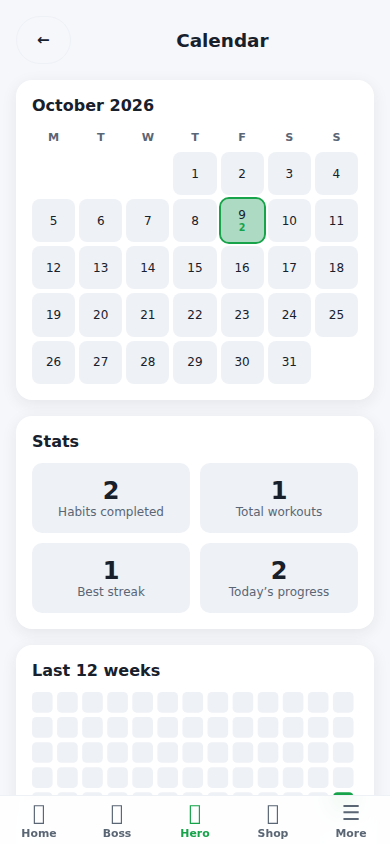
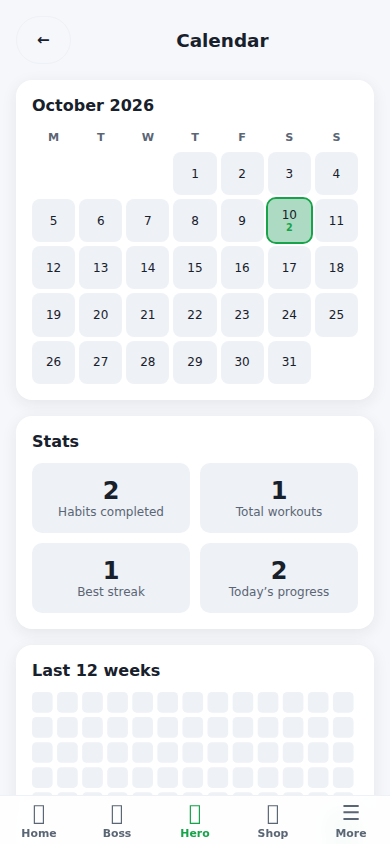
docs: logcat crash diagnosis + release keystore guide

Changed region(s): [[0.5538, 0.2156, 0.8, 0.3081], [0.8615, 0.9242, 0.8923, 0.955]]

diff --git a/PROJECT_STATUS.md b/PROJECT_STATUS.md
@@ -17,7 +17,7 @@ _Last updated: 2026-10-09_
       ratings, audience, ads, access, declarations, graphics specs, console
       checklist) + 7 real app screenshots + 512px icon
 
-## 🐛 Bugs found & fixed (2026-10-09)
+## 🐛 Bugs found & fixed (2026-10-09/10)
 
 - Router had no `:param` matching → workout screen 404'd (headline feature broken)
 - Rest overlay CSS overrode `hidden` → blocked ALL workout button taps
@@ -30,6 +30,22 @@ _Last updated: 2026-10-09_
   the zip wrapper was the likely cause of "tap → nothing happens")
 - AdMob now statically imported (rewarded ads actually work on Android)
 - Boot error boundary: any startup crash now shows a visible message
+- **Crash-proof `MainActivity`**: onCreate/onStart/onResume wrapped in
+  try/catch → visible error dialog instead of silent force-close
+  (`showFatalError` verified inside APK classes13.dex)
+- **Release signing**: ephemeral CI test keystore via keytool
+  (fixes `validateSigningRelease` "debug.keystore not found")
+- **R8/ProGuard**: `minifyEnabled` + `shrinkResources` explicitly false
+  for BOTH debug and release; keep-rules added for Capacitor/plugins/AdMob
+- **JDK 21 required** for Capacitor 8.x (JDK 17 → "invalid source release: 21")
+- `onResume`/`onStart` must be `public` (BridgeActivity visibility)
+- Web bundle failure → visible red error overlay (index.html)
+
+## 📊 CI (both APKs)
+
+- `assembleDebug` → artifact `app-debug-apk` + Release `debug-apk`
+- `assembleRelease` → artifact `app-release-apk` (6.7 MB)
+- JDK: zulu 21 · Gradle cache · icons generated in CI
 
 ## 🔗 Links
 
@@ -37,7 +53,7 @@ _Last updated: 2026-10-09_
 - Live web app: https://ravi9689370-oss.github.io/questhabit/
 - **APK (direct download, no zip):**
   https://github.com/ravi9689370-oss/questhabit/releases/download/debug-apk/app-debug.apk
-- APK artifact (zip): Actions → "Build Android Debug APK" → Artifacts
+- APK artifacts: Actions → "Build Android APKs" → app-debug-apk / app-release-apk
 
 ## 📲 Install on phone (if app "removes itself" / won't open)
 
@@ -57,8 +73,17 @@ _Last updated: 2026-10-09_
 4. **Closed testing**: new personal accounts need min testers × min days before
    production — verify current numbers at
    https://support.google.com/googleplay/android-developer/answer/9859455
-5. **Signed AAB for production** (debug APK is for testing only):
-   generate upload keystore, add signing to `android/app/build.gradle`,
-   `./gradlew bundleRelease` → upload AAB. **BACK UP keystore + passwords.**
+5. **Signed AAB for production** (CI APKs use a throwaway
+   test keystore — fine for testing, NOT for Play Store):
+   ```
+   keytool -genkeypair -v -keystore android/app/release.keystore \
+     -alias questhabit -keyalg RSA -keysize 2048 -validity 10000
+   # android/key.properties:
+   # STORE_FILE=release.keystore
+   # STORE_PASSWORD=<pw> / KEY_ALIAS=questhabit / KEY_PASSWORD=<pw>
+   # then locally: cd android && ./gradlew bundleRelease
+   ```
+   **BACK UP release.keystore + key.properties — losing them
+   blocks all future updates.**
 6. Resize `store/screenshots/*.png` to 1080×1920 for Play Store
    (per `store/graphics_specs.md`)

diff --git a/README.md b/README.md
@@ -43,18 +43,55 @@ Steps:
 **Note:** the GitHub Actions *artifact* is a ZIP — use the **Release**
 link above instead (raw .apk, one tap install).
 
+### If the app still force-closes (crash diagnosis)
+
+Capture the native crash log — this pinpoints the exact cause:
+
+```bash
+# phone connected via USB with USB debugging on
+adb logcat *:E | grep -iE "questhabit|capacitor|androidruntime"
+```
+
+Or: developer options → "Bug report" / "Take bug report" → share the
+`AndroidRuntime` FATAL EXCEPTION lines.
+
+The app now has three safety nets:
+1. `MainActivity` catches startup exceptions → shows an error dialog
+2. Web bundle failure → visible red error overlay (not a blank page)
+3. `boot()` wrapped in try/catch with a reload button
+
+Send the error text/screenshot and it will be fixed.
+
 ## 📱 Android (Capacitor)
 
 ```bash
 npm run build:android   # build web + sync capacitor config
-npx cap add android     # first time only
+npx cap sync android    # sync (android/ is committed)
 npx cap open android    # open in Android Studio, run on device
 ```
 
-Debug APK is also built automatically by GitHub Actions
-(`.github/workflows/android.yml`) and attached to the
-**"Debug APK (latest)"** Release + uploaded as an artifact named
-`app-debug-apk`.
+APKs are built automatically by GitHub Actions
+(`.github/workflows/android.yml`):
+- **debug APK** → artifact `app-debug-apk` + attached to the
+  `debug-apk` GitHub Release (raw download)
+- **release APK** → artifact `app-release-apk`
+
+Both are signed with an **ephemeral CI test keystore** (throwaway,
+regenerated each run). For a **production release**, generate your
+own persistent keystore:
+
+```bash
+keytool -genkeypair -v -keystore android/app/release.keystore \
+  -alias questhabit -keyalg RSA -keysize 2048 -validity 10000
+# then create android/key.properties:
+# STORE_FILE=release.keystore
+# STORE_PASSWORD=<your-password>
+# KEY_ALIAS=questhabit
+# KEY_PASSWORD=<your-password>
+```
+
+**⚠ Back up release.keystore + key.properties somewhere safe —
+losing them means you can never ship an app update again.**
 
 ## 🌐 GitHub Pages
 
